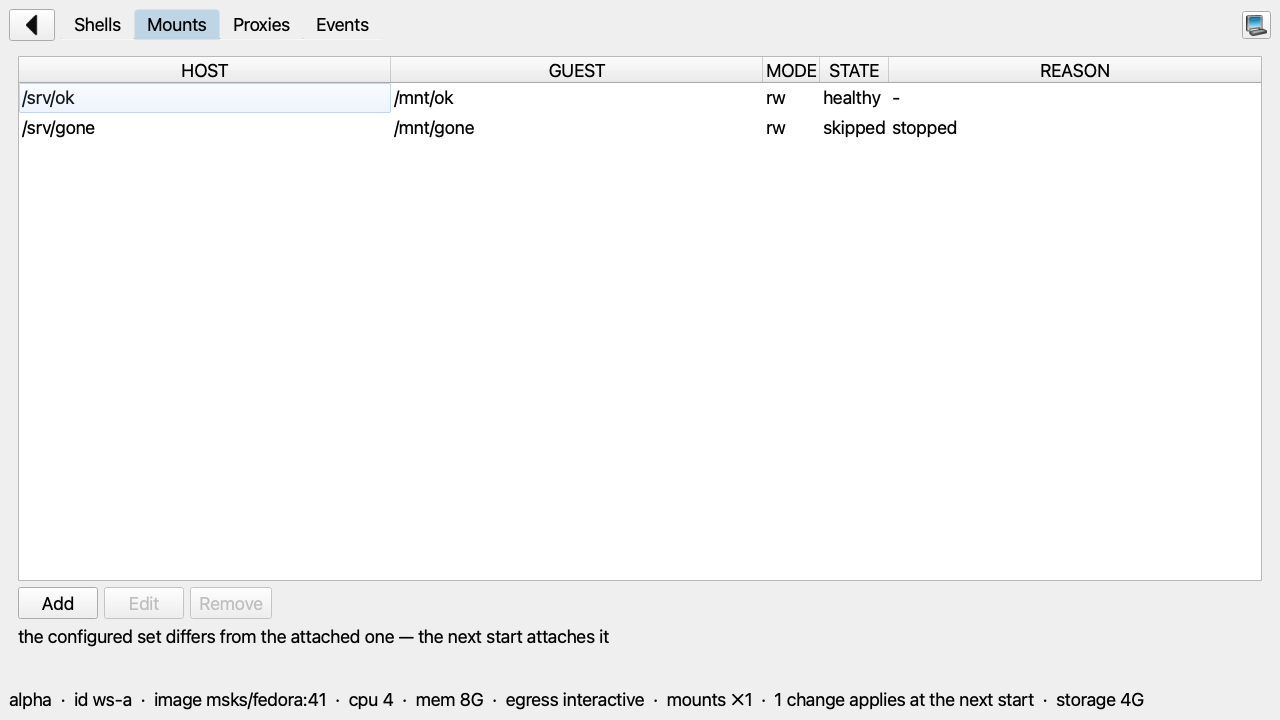
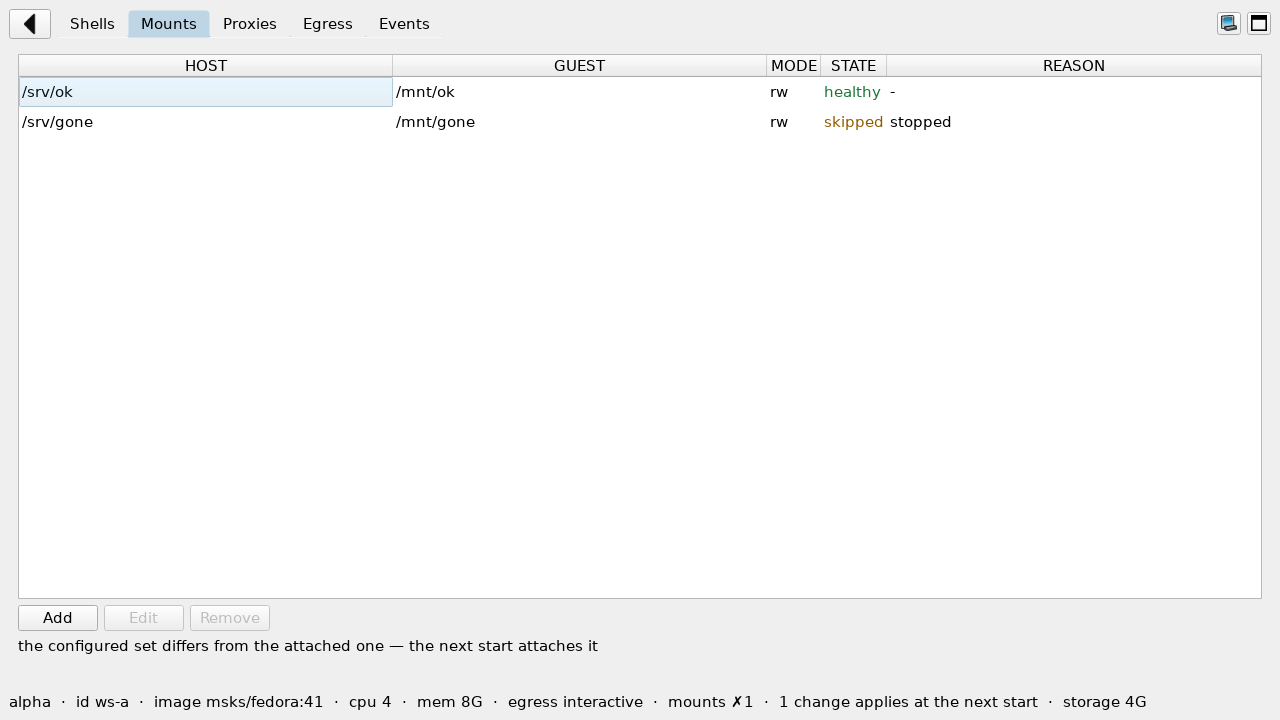
GUI docs: re-render the chapter's screenshots with the state colors on a Linux host (#1172) (#1173)
* GUI docs: render the chapter's screenshots on Linux (#1172)

scripts/gui_screens.py pinned an empty fontconfig for the
capture, and on a Linux host the offscreen Qt platform found no
face for the chrome under it: every glyph rendered through Qt's
box engine until the first terminal registered the wheel's
JetBrains Mono, after which the chrome fell back to that face.
The committed PNGs came from macOS, where Qt reads CoreText.

The run now writes a fontconfig with one directory,
GUI_SCREENS_FONT_DIR, which devenv.nix exports as the DejaVu
package the devenv lock pins, with the generic families aliased
to DejaVu Sans: the one face with every marker the GUI paints
(✗, ↻, ·). The chrome's size is the window's own anchor
(open_window's 15 logical pixels through the screen's dpi)
instead of a bare scale of the offscreen platform's 9pt default.
The setup is written in the script's docstring and in
docs/development.md; a Linux host needs nothing beyond the shell,
and the script refuses without the variable.

The ten captures re-render from the pre-#1160 GUI on Linux with
DejaVu Sans, so this diff is the font and platform drift alone:
the Clone button (#1068) now shows on the list, and the chrome
opens at the window's size. The state colors land in their own
commit.

* GUI docs: a running row and an unselected Secrets page for the captures (#1172)

The list's fixture held one running workspace, alpha, and that
row carries the unresolved-mount marker and the list's first-row
[…]

diff --git a/scripts/gui_screens.py b/scripts/gui_screens.py
@@ -10,9 +10,38 @@ no desktop window: the widgets paint offscreen and
 ``QWidget.grab()`` reads the pixels.
 
 Run from the devenv shell (the project's Python carries
-PySide6):
+PySide6, and the shell exports the font directory below):
 
     devenv --quiet shell -- python scripts/gui_screens.py
+
+The pixels do not vary with the host's fonts (#1172). On Linux
+Qt resolves every family through fontconfig, so the run pins
+``FONTCONFIG_FILE`` to a file it writes: one directory,
+``GUI_SCREENS_FONT_DIR``, with the generic families aliased —
+sans-serif to DejaVu Sans, monospace to DejaVu Sans Mono. DejaVu
+Sans is the chrome's face: the one face with every marker the GUI
+paints (``✗``, ``↻``, ``·``) in a single file, where Noto Sans and
+Liberation Sans lack some and fall back to whatever the host
+holds. ``devenv.nix`` exports the directory as the DejaVu package
+the devenv lock pins; a Linux host needs no system-level step, the
+font is in the shell, and without the variable the script refuses
+— an empty pin hands the chrome to Qt's box engine, every glyph a
+hollow rectangle, the shape the first Linux render came out in.
+The session's platform theme, style engine, scaling, and plugin
+path stay out of it too (SCRUBBED_ENV dropped, Fusion forced), and
+once the application stands the run checks that the database holds
+the DejaVu faces alone and that the chrome resolved to DejaVu
+Sans: a directory without the face, or a fontconfig file that did
+not parse (fontconfig then falls back to the host's own config),
+resolves somewhere else — the host's fonts in play again.
+The run stops on macOS there: Qt reads CoreText, not fontconfig.
+The terminal's face is the wheel's own bundled JetBrains Mono,
+registered as an application font, so it reads no fontconfig. The
+chrome's size is the window's own anchor, the terminal face's 15
+logical pixels through the screen's dpi (#939, #1056): the capture
+shows the window at the size the operator sees on the platform,
+where a bare scale of the offscreen platform's own default (9pt)
+left the chrome a fifth smaller than the window it documents.
 
 The fixed clock pins every relative label (``2d ago``, the
 TTL countdown) to one moment, so re-running the script
@@ -32,7 +61,49 @@ from pathlib import Path
 ROOT = Path(__file__).resolve().parent.parent
 OUT = ROOT / "docs" / "screens"
 
-#: The pinned moment every relative label reads (#1008's
+#: The directory the pinned fontconfig lists (#1172): devenv.nix
+#: exports the DejaVu package's font directory the devenv lock
+#: pins, and the chrome resolves to CHROME_FAMILY from it.
+FONT_DIR_ENV = "GUI_SCREENS_FONT_DIR"
+
+#: The chrome's face under the pin (#1172): one file with every
+#: marker the GUI paints — ✗, ↻, · — where the other Linux
+#: defaults (Noto Sans, Liberation Sans) lack some.
+CHROME_FAMILY = "DejaVu Sans"
+
+#: The monospace generic's face under the pin (#1172): no chrome
+#: widget asks for the generic (the terminal names JetBrains Mono),
+#: but an ask must land on a fixed-pitch face, not the first face
+#: in the sort.
+MONO_FAMILY = "DejaVu Sans Mono"
+
+#: The family name every face in the pinned directory carries
+#: (#1172): the database holds those alone when the pin took.
+PINNED_PREFIX = "DejaVu"
+
+#: The generic family names Qt lists whatever the fontconfig
+#: holds (#1172): the names the offscreen theme asks with, beside
+#: the pinned directory's faces.
+GENERIC_FAMILIES = frozenset({"Sans Serif", "Serif", "Monospace"})
+
+#: The host's session variables the capture drops before Qt loads
+#: (#1172): a desktop session's platform theme (gtk3, kde) hands
+#: Qt its own font family and palette; a preset scale factor or
+#: font dpi resizes every capture (QT_SCALE_FACTOR=2 doubles
+#: them) while the face check still passes; the host's Qt plugin
+#: path would let its own platform plugin stand in for the wheel's.
+SCRUBBED_ENV = (
+    "QT_QPA_PLATFORMTHEME",
+    "QT_SCALE_FACTOR",
+    "QT_SCALE_FACTOR_ROUNDING_POLICY",
+    "QT_SCREEN_SCALE_FACTORS",
+    "QT_FONT_DPI",
+    "QT_AUTO_SCREEN_SCALE_FACTOR",
+    "QT_ENABLE_HIGHDPI_SCALING",
+    "QT_PLUGIN_PATH",
+)
+
+#: The moment every relative label reads (#1008's
 #: captures): an aware local datetime, the shape the shared
 #: leaf's own clock returns — a naive pin would read as local
 #: time against the daemon's UTC stamps and skew every label
@@ -40,6 +111,48 @@ OUT = ROOT / "docs" / "screens"
 #: as UTC around this moment, the daemon's own convention.
 PINNED = datetime(2026, 1, 4, 12, 0, 0).astimezone()
 PINNED_UTC = PINNED.astimezone(UTC)
+
+
+def pinned_fontconfig() -> str:
+    """Write the fontconfig the run pins (#1172) and return its
+    path: one directory, ``GUI_SCREENS_FONT_DIR``, with the
+    generic families aliased — sans-serif to CHROME_FAMILY,
+    monospace to DejaVu Sans Mono. Without the alias fontconfig
+    hands a generic to the first face in its sort, DejaVu Math
+    TeX Gyre over DejaVu Sans with the DejaVu directory listed,
+    and a proportional face for a monospace ask. An unset or
+    missing directory stops the run with one line: the capture
+    belongs in the devenv shell, and a directory fontconfig cannot
+    find renders the same boxes as no font at all. The path is
+    XML-escaped: a file that does not parse drops fontconfig back
+    to the host's own config, every host font in play again, and
+    only the resolved-face check in capture() would name it."""
+    font_dir = os.environ.get(FONT_DIR_ENV)
+    if not font_dir:
+        sys.exit(
+            f"gui_screens: {FONT_DIR_ENV} is unset — run from the "
+            "devenv shell (docs/development.md)"
+        )
+    if not Path(font_dir).is_dir():
+        sys.exit(f"gui_screens: {FONT_DIR_ENV} names no directory: {font_dir}")
+    fonts = tempfile.NamedTemporaryFile(suffix=".conf", delete=False, mode="w")
+    fonts.write(
+        "<?xml version='1.0'?>\n"
+        "<!DOCTYPE fontconfig SYSTEM 'fonts.dtd'>\n"
+        "<fontconfig>\n"
+        f"  <dir>{font_dir.replace('&', '&amp;').replace('<', '&lt;')}</dir>\n"
+        "  <alias><family>sans-serif</family><prefer>"
+        f"<family>{CHROME_FAMILY}</family></prefer></alias>\n"
+        "  <alias><family>Sans Serif</family><prefer>"
+        f"<family>{CHROME_FAMILY}</family></prefer></alias>\n"
+        "  <alias><family>monospace</family><prefer>"
+        f"<family>{MONO_FAMILY}</family></prefer></alias>\n"
+        "  <alias><family>Monospace</family><prefer>"
+        f"<family>{MONO_FAMILY}</family></prefer></alias>\n"
+        "</fontconfig>\n"
+    )
+    fonts.close()
+    return fonts.name
 
 
 def utc_stamp(offset: timedelta) -> str:
@@ -131,7 +244,12 @@ class FakePresenter:
 
 def daemon_rows() -> list[dict]:
     """The listing the workspaces screenshot reads: three
-    workspaces, one carrying both markers, newest first."""
+    workspaces — alpha with an unresolved mount, beta with changes
+    waiting for its next start, gamma running unmarked — so the
+    list, newest first on screen (alpha, gamma, beta), shows the
+    healthy row's green beside the marked rows' amber (#1160,
+    #1172): alpha is the row the list holds selected, and a
+    selected row keeps the highlight's own text color."""
     return [
         {
             "id": "ws-a",
@@ -170,9 +288,14 @@ def daemon_rows() -> list[dict]:
         {
             "id": "ws-c",
             "name": "gamma",
-            "status": "created",
+            "status": "running",
             "image_ref": "msks/debian:13",
             "created_at": utc_stamp(timedelta(days=-1, hours=-6)),
+            "cpus": 2,
+            "mem_mib": 2048,
+            "egress_mode": "static",
+            "mounts_pending": False,
+            "sizes_pending": False,
         },
     ]
 
@@ -213,6 +336,62 @@ def shot(widget, name: str) -> None:
     print(f"captured {path.relative_to(ROOT)}")
 
 
+def unselect(*tables) -> None:
+    """Clear each table's selection and current cell (#1172): a
+    fresh page holds its first rows selected, and a selected
+    row keeps the highlight's own text color (#1160) — cleared,
+    the Secrets page's STATE column shows the open row's green
+    beside the locked row's amber. A click on the empty area
+    below the rows is the operator's own gesture."""
+    for table in tables:
+        table.clearSelection()
+        table.selectionModel().clearCurrentIndex()
+
+
+def foreign_families(families) -> list[str]:
+    """The families outside the pin (#1172), sorted: the pinned
+    directory's faces carry PINNED_PREFIX and Qt lists the
+    generic names on its own, so anything else came from the
+    host's own fontconfig — the file did not parse, or the
+    variable named another directory."""
+    return sorted(
+        family
+        for family in families
+        if family not in GENERIC_FAMILIES
+        and not family.startswith(PINNED_PREFIX)
+    )
+
+
+def require_chrome_face(app) -> None:
+    """The pin's proof (#1172): the database holds the pinned
+    directory's faces alone and the chrome resolved to the pinned
+    face, or the run stops with one line. A fontconfig file that
+    did not parse drops fontconfig back to the host's own config,
+    and the host's families show in the database — the one host
+    that passes then holds nothing but DejaVu faces, where only
+    the hinting could differ. A directory without the face
+    resolves the chrome somewhere else, and macOS resolves
+    through CoreText, where the pin reads nothing: the captures
+    render on a Linux host."""
+    from PySide6 import QtGui
+
+    foreign = foreign_families(QtGui.QFontDatabase.families())
+    if foreign:
+        sys.exit(
+            "gui_screens: the font database holds families outside the "
+            f"pin ({', '.join(foreign[:5])}) — FONTCONFIG_FILE did not "
+            "take; the captures render on a Linux host from the devenv "
+            "shell (docs/development.md)"
+        )
+    resolved = QtGui.QFontInfo(app.font()).family()
+    if resolved != CHROME_FAMILY:
+        sys.exit(
+            f"gui_screens: the chrome resolved to {resolved!r}, not "
+            f"{CHROME_FAMILY!r} — the captures render on a Linux host "
+            "from the devenv shell (docs/development.md)"
+        )
+
+
 def preset_rows():
     """The connection picker's menu rows: two aliases with the
     first standing, the dev daemon's dial."""
@@ -229,11 +408,14 @@ def preset_rows():
 
 def main() -> int:
     os.environ["QT_QPA_PLATFORM"] = "offscreen"
-    fonts = tempfile.NamedTemporaryFile(suffix=".conf", delete=False, mode="w")
-    fonts.write("<fontconfig/>\n")
-    fonts.close()
-    os.environ["FONTCONFIG_FILE"] = fonts.name
-    os.environ.setdefault("QT_STYLE_OVERRIDE", "Fusion")
+    # None of the host's session in the capture (#1172): the theme,
+    # scaling, and plugin variables go before Qt loads, and the style
+    # is the window's own Fusion, not a setdefault the host could
+    # pre-empt.
+    for name in SCRUBBED_ENV:
+        os.environ.pop(name, None)
+    os.environ["QT_STYLE_OVERRIDE"] = "Fusion"
+    os.environ["FONTCONFIG_FILE"] = pinned_fontconfig()
     try:
         capture()
     finally:
@@ -252,7 +434,7 @@ def main() -> int:
                     hub.shutdown()
                 except Exception as exc:
                     print(f"msks-screens: {exc}", file=sys.stderr)
-        os.unlink(fonts.name)
+        os.unlink(os.environ["FONTCONFIG_FILE"])
     return 0
 
 
@@ -268,9 +450,15 @@ def capture() -> None:
     from msks.client.gui import secretrows as secretrows_mod
     from msks.client.gui import workspace as workspace_mod
     from msks.client.gui import workspaces as workspaces_mod
-    from msks.client.gui.app import FONT_SCALE, FUSION_STYLE
+    from msks.client.gui.app import (
+        FONT_SCALE,
+        FUSION_STYLE,
+        chrome_pt,
+        screen_dpi,
+    )
     from msks.client.gui.images import tab as images_mod
     from msks.client.gui.secrets import tab as secrets_mod
+    from msks.client.gui.terminal.fonts import DEFAULT_PT
     from PySide6 import QtWidgets
 
     ages_mod.clock_now = lambda: PINNED
@@ -280,9 +468,18 @@ def capture() -> None:
         ["msks-screens"]
     )
     app.setStyle(FUSION_STYLE)
+    # The window's own chrome anchor (open_window's write, #939,
+    # #1056): the terminal face's 15 logical pixels converted
+    # through the screen's dpi, so the capture shows the chrome
+    # at the size the operator's window opens at — the
+    # offscreen platform's own default (9pt) is no desktop
+    # session's font, and a bare scale of it left the chrome a
+    # fifth smaller than the window it documents. The operator's
+    # MSKSC_GUI_FONT_SCALE knob stays out of a docs render.
     font = app.font()
-    font.setPointSizeF(font.pointSizeF() * FONT_SCALE)
+    font.setPointSizeF(chrome_pt(DEFAULT_PT * FONT_SCALE, screen_dpi(app)))
     app.setFont(font)
+    require_chrome_face(app)
 
     list_bridge = StubBridge()
 
@@ -554,6 +751,8 @@ def capture() -> None:
             ],
         },
     )
+    settle(app, rounds=4)
+    unselect(secrets.table, secrets.audit_table)
     settle(app, rounds=4)
     shot(secrets_window, "gui-secrets.png")
     secrets_window.close()

diff --git a/docs/development.md b/docs/development.md
@@ -529,6 +529,33 @@ msks-docs              # serves http://127.0.0.1:8923/ live
 `RENDER_DOCS_SCREENS=1 pytest -q
 src/msks/tests/test_render_docs_screens.py`.
 
+The GUI chapter's screenshots, `docs/screens/gui-*.png`, come
+from `scripts/gui_screens.py`. Run it from the devenv shell on a
+Linux host (#1172):
+
+```bash
+devenv --quiet shell -- python scripts/gui_screens.py
+```
+
+The script writes its own fontconfig file and points
+`FONTCONFIG_FILE` at it. The file lists one directory,
+`GUI_SCREENS_FONT_DIR`, which `devenv.nix` exports as the DejaVu
+package the devenv lock pins. The window's chrome resolves to
+DejaVu Sans from that directory. The terminal keeps the wheel's
+bundled JetBrains Mono. The host's own fonts take no part, and a
+Linux host needs no font package or system setting beyond the
+shell. The script stops with one line when the variable is unset.
+A second run on the same host reproduces the committed pixels,
+except the events tab's clock stamps and the terminal child's
+output, which may differ between runs. The session's platform
+theme, style engine, scaling, and plugin path stay out of the
+capture. Once the application stands, the script checks that the
+font database holds the DejaVu faces alone and that the chrome
+resolved to DejaVu Sans. A directory without the face, a
+fontconfig file that did not parse, and a macOS host all stop the
+run there. Qt reads CoreText on macOS. The committed captures come
+from a Linux host. Re-render them from one too.
+
 ### The workspace LLM proxy
 
 Each workspace's tap carries its own proxy service when the daemon
